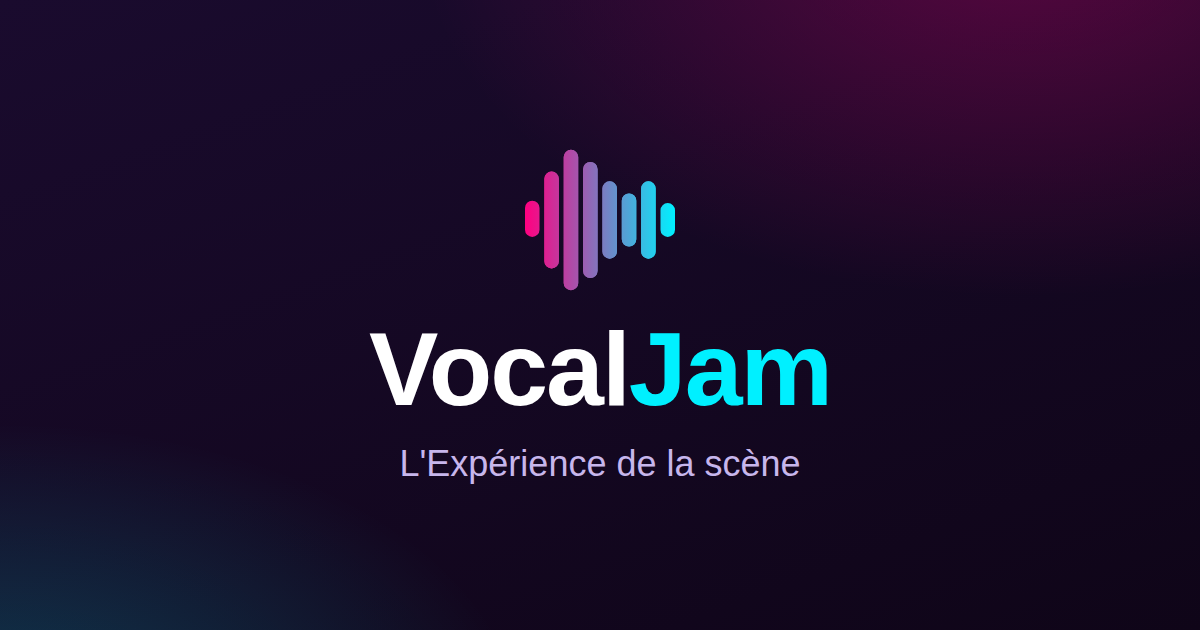
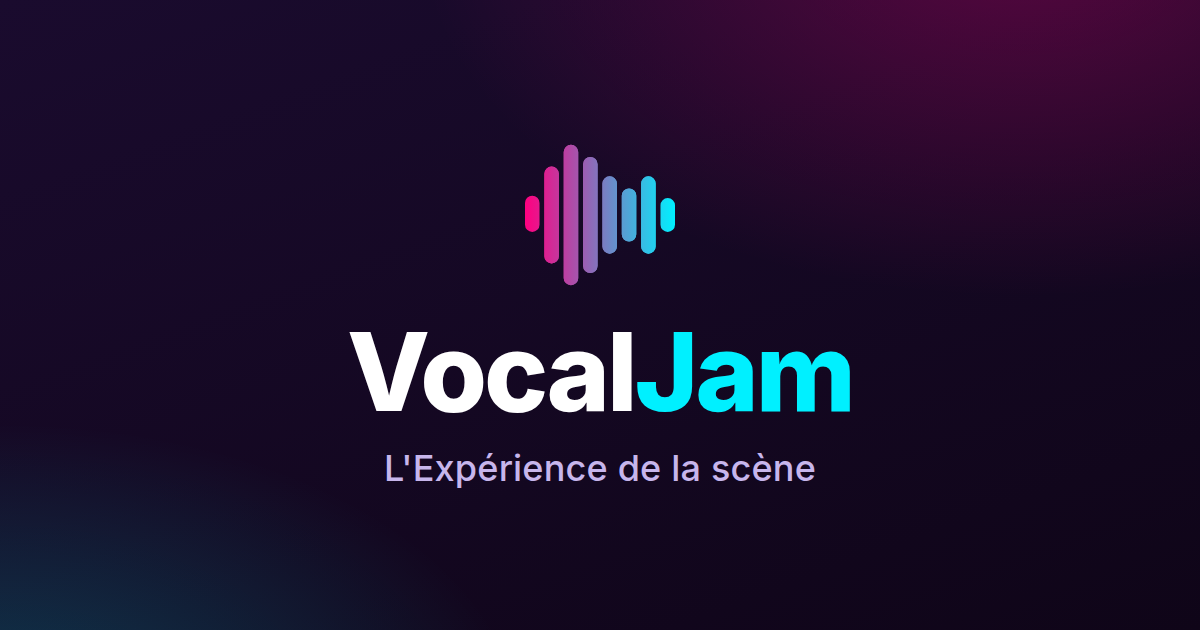
Peaufinage : retour à la ligne du bloc signature + vignette de partage en Inter
- HubPage : « Une scène. Trois manières d'y être. » sur une ligne et « Zéro
  spectateur passif. » sur la suivante (saut forcé + text-balance), centré
- og-image régénérée avec la police Inter embarquée (au lieu d'une police
  système) pour un mot-logo « VocalJam » fidèle à la charte

Claude-Session: https://claude.ai/code/session_01Uty32bpE7oQvgrxdmuDYKp

diff --git a/pages/HubPage.tsx b/pages/HubPage.tsx
@@ -121,8 +121,8 @@ export const HubPage: React.FC<HubPageProps> = ({ onNavigate }) => {
           <div className="relative rounded-3xl overflow-hidden bg-gradient-to-br from-jam-900 to-jam-800 border border-jam-700 p-10 md:p-14 text-center">
             <div className="absolute inset-0 bg-gradient-to-r from-neon-pink/10 to-neon-blue/10"></div>
             <div className="relative z-10">
-              <p className="font-display text-2xl md:text-3xl font-bold text-white mb-4">
-                Une scène. Trois manières d'y être. Zéro spectateur passif.
+              <p className="font-display text-2xl md:text-3xl font-bold text-white mb-4 text-balance">
+                Une scène. Trois manières d'y être.<br />Zéro spectateur passif.
               </p>
               <p className="text-lg text-gray-300 mb-8 max-w-2xl mx-auto">
                 Un projet, une envie, une date ? Parlons-en — on trouve ensemble la formule qui vous ressemble.
